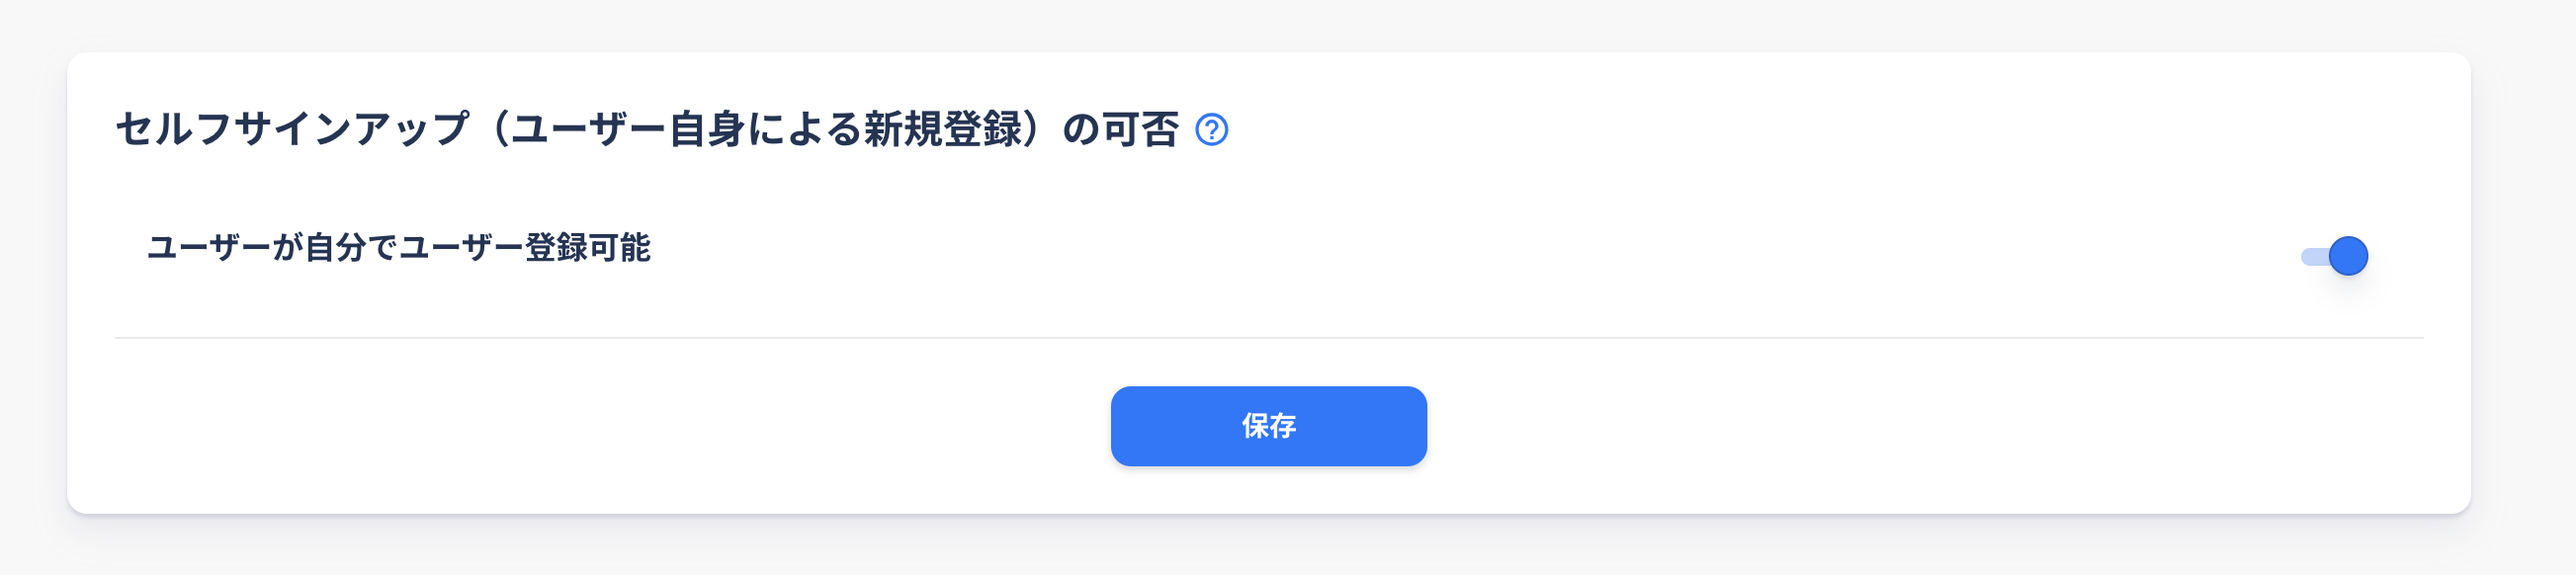
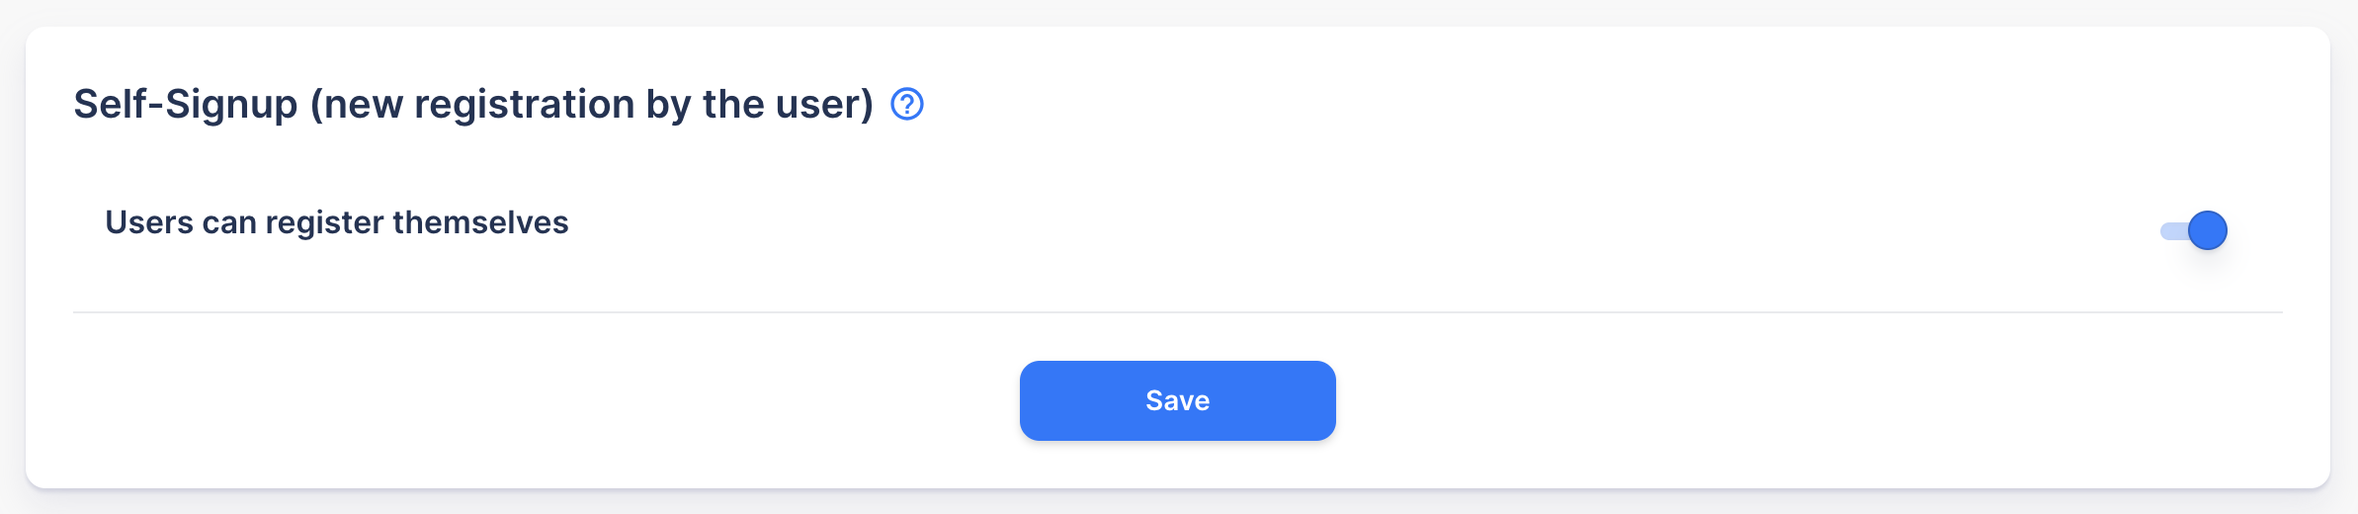
translate supplementary

diff --git a/sidebars.js b/sidebars.js
@@ -186,7 +186,7 @@ const sidebars = {
         'aws-marketplace-integration/embedding-products',
         {
           type: 'category',
-          label: '補足',
+          label: 'Supplementary',
           link: {
             type: 'doc',
             id: 'aws-marketplace-integration/supplementary',

diff --git a/docs/aws-marketplace-integration/supplementary/integration-test.md b/docs/aws-marketplace-integration/supplementary/integration-test.md
@@ -1,64 +1,63 @@
 ---
-title: "API統合が完了した後に実施する連携確認の例"
+title: "Examples of Integration Confirmation to be Done After API Integration"
 slug: "integration-test"
 excerpt: ""
 hidden: false
-metadata: 
+metadata:
   image: []
   robots: "index"
 createdAt: "Wed Jun 21 2023 06:02:27 GMT+0000 (Coordinated Universal Time)"
 updatedAt: "Fri Oct 27 2023 07:14:31 GMT+0000 (Coordinated Universal Time)"
 ---
-事前にAWS Marketplace上に限定公開されている製品ページのURLを確認してください。
+Please check the URL of the product page that is privately published on AWS Marketplace in advance.
 
-### 製品ページURLの確認方法
+### How to Check the Product Page URL
 
-1. AWS Marketplace Management Portalへログインする。
-2. こちらの<a href="https://aws.amazon.com/marketplace/management/products/saas?#" target="_blank">リンク</a>
-3. 限定公開状態のSaaS製品の一覧が表示されるので確認したいSaaS製品を選択する。
-4. 詳細ページが表示されますので、ページ右上の「View on AWS Marketplace」のボタンから製品ページのURLを確認することができます。
+1. Sign in to AWS Marketplace Management Portal.
+2. Follow this <a href="https://aws.amazon.com/marketplace/management/products/saas?#" target="_blank">link</a>.
+3. A list of SaaS products in private publication will be displayed, so select the SaaS product you want to check.
+4. On the detail page shown, you can check the product page URL from the button `View on AWS Marketplace` at the top right of the page.
 
 ![integration-test-1](/img/aws-marketplace-integration/supplementary/integration-test-1.png)
 
+## About Integration Confirmation Methods
 
-## 連携確認方法について
+To confirm the integration with AWS Marketplace, you need to implement three use cases in total.
 
-AWS Marketplaceとの連携を確認するには、全部で3つのユースケースを実施する必要があります。
+### When a New Account is Created by Signup After Purchase
 
-### 購入後、サインアップをして新規アカウントを作った場合
+After signing up, please make sure that the created account is correctly synchronized with the purchased contract.
 
-サインアップ後に生成されるアカウントに対して、正しく購入した契約が同期されていることを確認してください。
+Confirmation Example
 
-確認例
-
-1. テストアカウントで、AWS Marketplace上の製品ページへアクセス
-2. 特定の契約を選択し購入する
+1. Access the product page on AWS Marketplace with a test account.
+2. Select and purchase a particular contract.
 
 <!----->
 
-1. 購入後に表示される動線から、SaaSのサインアップ画面へ遷移
-2. SaaSのサインアップを実施後そのアカウントでSaaSへログインする
-3. 契約情報を確認できるページへ移動して、契約内容を確認する
+1. After the purchase, follow the prompts to the sign-up page of the SaaS service.
+2. After signing up, sign in to the SaaS service with that account.
+3. Move to the page where you can check the contract information and inspect the contract details.
 
-### 購入後、既存ユーザーでサインインをした場合
+### When an Existing User Sign-In After Purchase
 
-既にSaaSにアカウントを持っているユーザーが、購入した際に正しく契約が同期されていることを確認してください。
+Please ensure that a user who already has an account on the SaaS service is correctly synchronized with the contract after purchase.
 
-確認例
+Confirmation Example
 
-1. 既にSaaS上にアカウントを持っているテストアカウントで、AWS Marketplace上の製品ページへアクセス
-2. 特定の契約を選択し購入する
-3. 購入後に表示される動線から、SaaSのサインアップ画面→サインイン画面と遷移する
-4. SaaSのサインインを実施後そのアカウントでSaaSへログインする
-5. 契約情報を確認できるページへ移動して、契約内容を確認する
+1. With a test account that already possesses an account on the SaaS service, access the product page on AWS Marketplace.
+2. Choose a specific contract and purchase it.
+3. After the purchase, follow the prompts to the sign-up page of the SaaS service, then move on to the sign-in page.
+4. After signing in, sign in to the SaaS with that account.
+5. Move to the page where you can check the contract information and inspect the contract details.
 
-### 購入後、AWS Marketplaceの製品契約ページで契約を変更した場合
+### When Changing a Contract on the AWS Marketplace Product Contract Page After Purchase
 
-既にAWS Marketplace上で契約していた場合、製品契約ページで契約を変更した際に正しく契約が同期されることを確認してください。
+If you already have a contract on AWS Marketplace, when you update the contract on the product contract page, please ensure that the contract is correctly synchronized.
 
-確認例
+Confirmation Example
 
-1. AWS Marketplace上の製品契約ページへアクセス
-2. 特定の契約を選択し、契約を更新する
-3. SaaSにログインする
-4. 契約情報を確認できるページへ移動して、契約内容を確認する
+1. Access the product contract page on AWS Marketplace.
+2. Choose a specific contract and update the contract.
+3. Sign in to SaaS.
+4. Move to the page where you can check the contract information and inspect the contract details.

diff --git a/docs/aws-marketplace-integration/supplementary/user-judgment-method.md b/docs/aws-marketplace-integration/supplementary/user-judgment-method.md
@@ -1,20 +1,20 @@
 ---
-title: "AWS Marketplaceから購入したユーザーの判定方法"
+title: "How to Identify Users who Purchased from AWS Marketplace"
 slug: "user-judgment-method"
 excerpt: ""
 hidden: false
-metadata: 
+metadata:
   image: []
   robots: "index"
 createdAt: "Tue Jun 20 2023 11:31:59 GMT+0000 (Coordinated Universal Time)"
 updatedAt: "Fri Jun 30 2023 03:39:08 GMT+0000 (Coordinated Universal Time)"
 ---
-SAASUS AWS MARKETPLACE APIを利用します。
+We will use the SAASUS AWS MARKETPLACE API.
 
-[GetCustomers](/docs/reference/awsmarketplace-api#tag/awsMarketplace/operation/GetCustomers)というエンドポイントを利用します。仕様はドキュメントを参照してください。
+Use the endpoint named [GetCustomers](/docs/reference/awsmarketplace-api#tag/awsMarketplace/operation/GetCustomers). Please refer to the document for details on the specification.
 
-## 判定までの流れ
+## Flow till Judgment
 
-1. getUserInfoで取得したtenant_idを、GetCustomersのパラメーターtenant_idsに設定し実行する
-2. 返却値が空であるかをチェックする
-3. 空でない場合は、AWS Marketplaceから購入したユーザーであると判定することができます。
+1. Set the tenant_id obtained by getUserInfo as the parameter tenant_ids for GetCustomers and execute.
+2. Check whether the return value is empty.
+3. If not empty, you can determine it is a user who purchased from AWS Marketplace.

diff --git a/docs/aws-marketplace-integration/supplementary/self-up-setting.md b/docs/aws-marketplace-integration/supplementary/self-up-setting.md
@@ -1,19 +1,19 @@
 ---
-title: "セルフサインアップの設定方法"
+title: "How to Set Self-Signup"
 slug: "self-up-setting"
 excerpt: ""
 hidden: false
-metadata: 
+metadata:
   image: []
   robots: "index"
 createdAt: "Tue Jun 20 2023 11:34:45 GMT+0000 (Coordinated Universal Time)"
 updatedAt: "Fri Oct 27 2023 07:15:37 GMT+0000 (Coordinated Universal Time)"
 ---
-1. <a href="https://settings.console.saasus.io/customize" target="_blank">SaaS 開発コンソールの認証詳細設定</a>にアクセスします。
-2. 「認証設定」タブをクリックしてください。
-3. スクロールして、セルフサインアップ（ユーザー自身による新規登録）の可否の項目を見つけてください。
-4. トグルボタンをONにして、保存ボタンを押してください。
+1. Access <a href="https://settings.console.saasus.io/customize" target="_blank">Authentication Advanced Setting of SaaS Development Console</a>.
+2. Please click on the `Authentication` tab.
+3. Scroll down to find the item for enabling or disabling Self-Signup (new registration by the user).
+4. Turn on the toggle button and press the Save button.
 
 ![self-up-setting-1](/img/aws-marketplace-integration/supplementary/self-up-setting-1.png)
 
-以上で設定完了です。数分後に実際の画面に反映されます。
+That completes the setting. It will be reflected in the actual screen after a few minutes.

diff --git a/docs/aws-marketplace-integration/supplementary.md b/docs/aws-marketplace-integration/supplementary.md
@@ -1,13 +1,12 @@
 ---
-title: "補足"
+title: "Supplementary"
 slug: "supplementary"
 excerpt: ""
 hidden: false
-metadata: 
+metadata:
   image: []
   robots: "index"
 createdAt: "Thu Jun 01 2023 09:18:06 GMT+0000 (Coordinated Universal Time)"
 updatedAt: "Thu Jul 06 2023 01:24:09 GMT+0000 (Coordinated Universal Time)"
 ---
-セラー登録、SaaS製品情報の登録を行う際の補足や、AWS Marketplace連携機能の補足を  
-まとめています。
+This document collates additional information for seller registration, SaaS product information registration, and details related to AWS Marketplace integration functionality.

diff --git a/i18n/ja/docusaurus-plugin-content-docs/current/aws-marketplace-integration/supplementary/integration-test.md b/i18n/ja/docusaurus-plugin-content-docs/current/aws-marketplace-integration/supplementary/integration-test.md
@@ -18,7 +18,7 @@ updatedAt: "Fri Oct 27 2023 07:14:31 GMT+0000 (Coordinated Universal Time)"
 3. 限定公開状態のSaaS製品の一覧が表示されるので確認したいSaaS製品を選択する。
 4. 詳細ページが表示されますので、ページ右上の「View on AWS Marketplace」のボタンから製品ページのURLを確認することができます。
 
-![integration-test-1](/img/aws-marketplace-integration/supplementary/integration-test-1.png)
+![integration-test-1](/ja/img/aws-marketplace-integration/supplementary/integration-test-1.png)
 
 
 ## 連携確認方法について

diff --git a/i18n/ja/docusaurus-plugin-content-docs/current/aws-marketplace-integration/supplementary/self-up-setting.md b/i18n/ja/docusaurus-plugin-content-docs/current/aws-marketplace-integration/supplementary/self-up-setting.md
@@ -14,6 +14,6 @@ updatedAt: "Fri Oct 27 2023 07:15:37 GMT+0000 (Coordinated Universal Time)"
 3. スクロールして、セルフサインアップ（ユーザー自身による新規登録）の可否の項目を見つけてください。
 4. トグルボタンをONにして、保存ボタンを押してください。
 
-![self-up-setting-1](/img/aws-marketplace-integration/supplementary/self-up-setting-1.png)
+![self-up-setting-1](/ja/img/aws-marketplace-integration/supplementary/self-up-setting-1.png)
 
 以上で設定完了です。数分後に実際の画面に反映されます。
